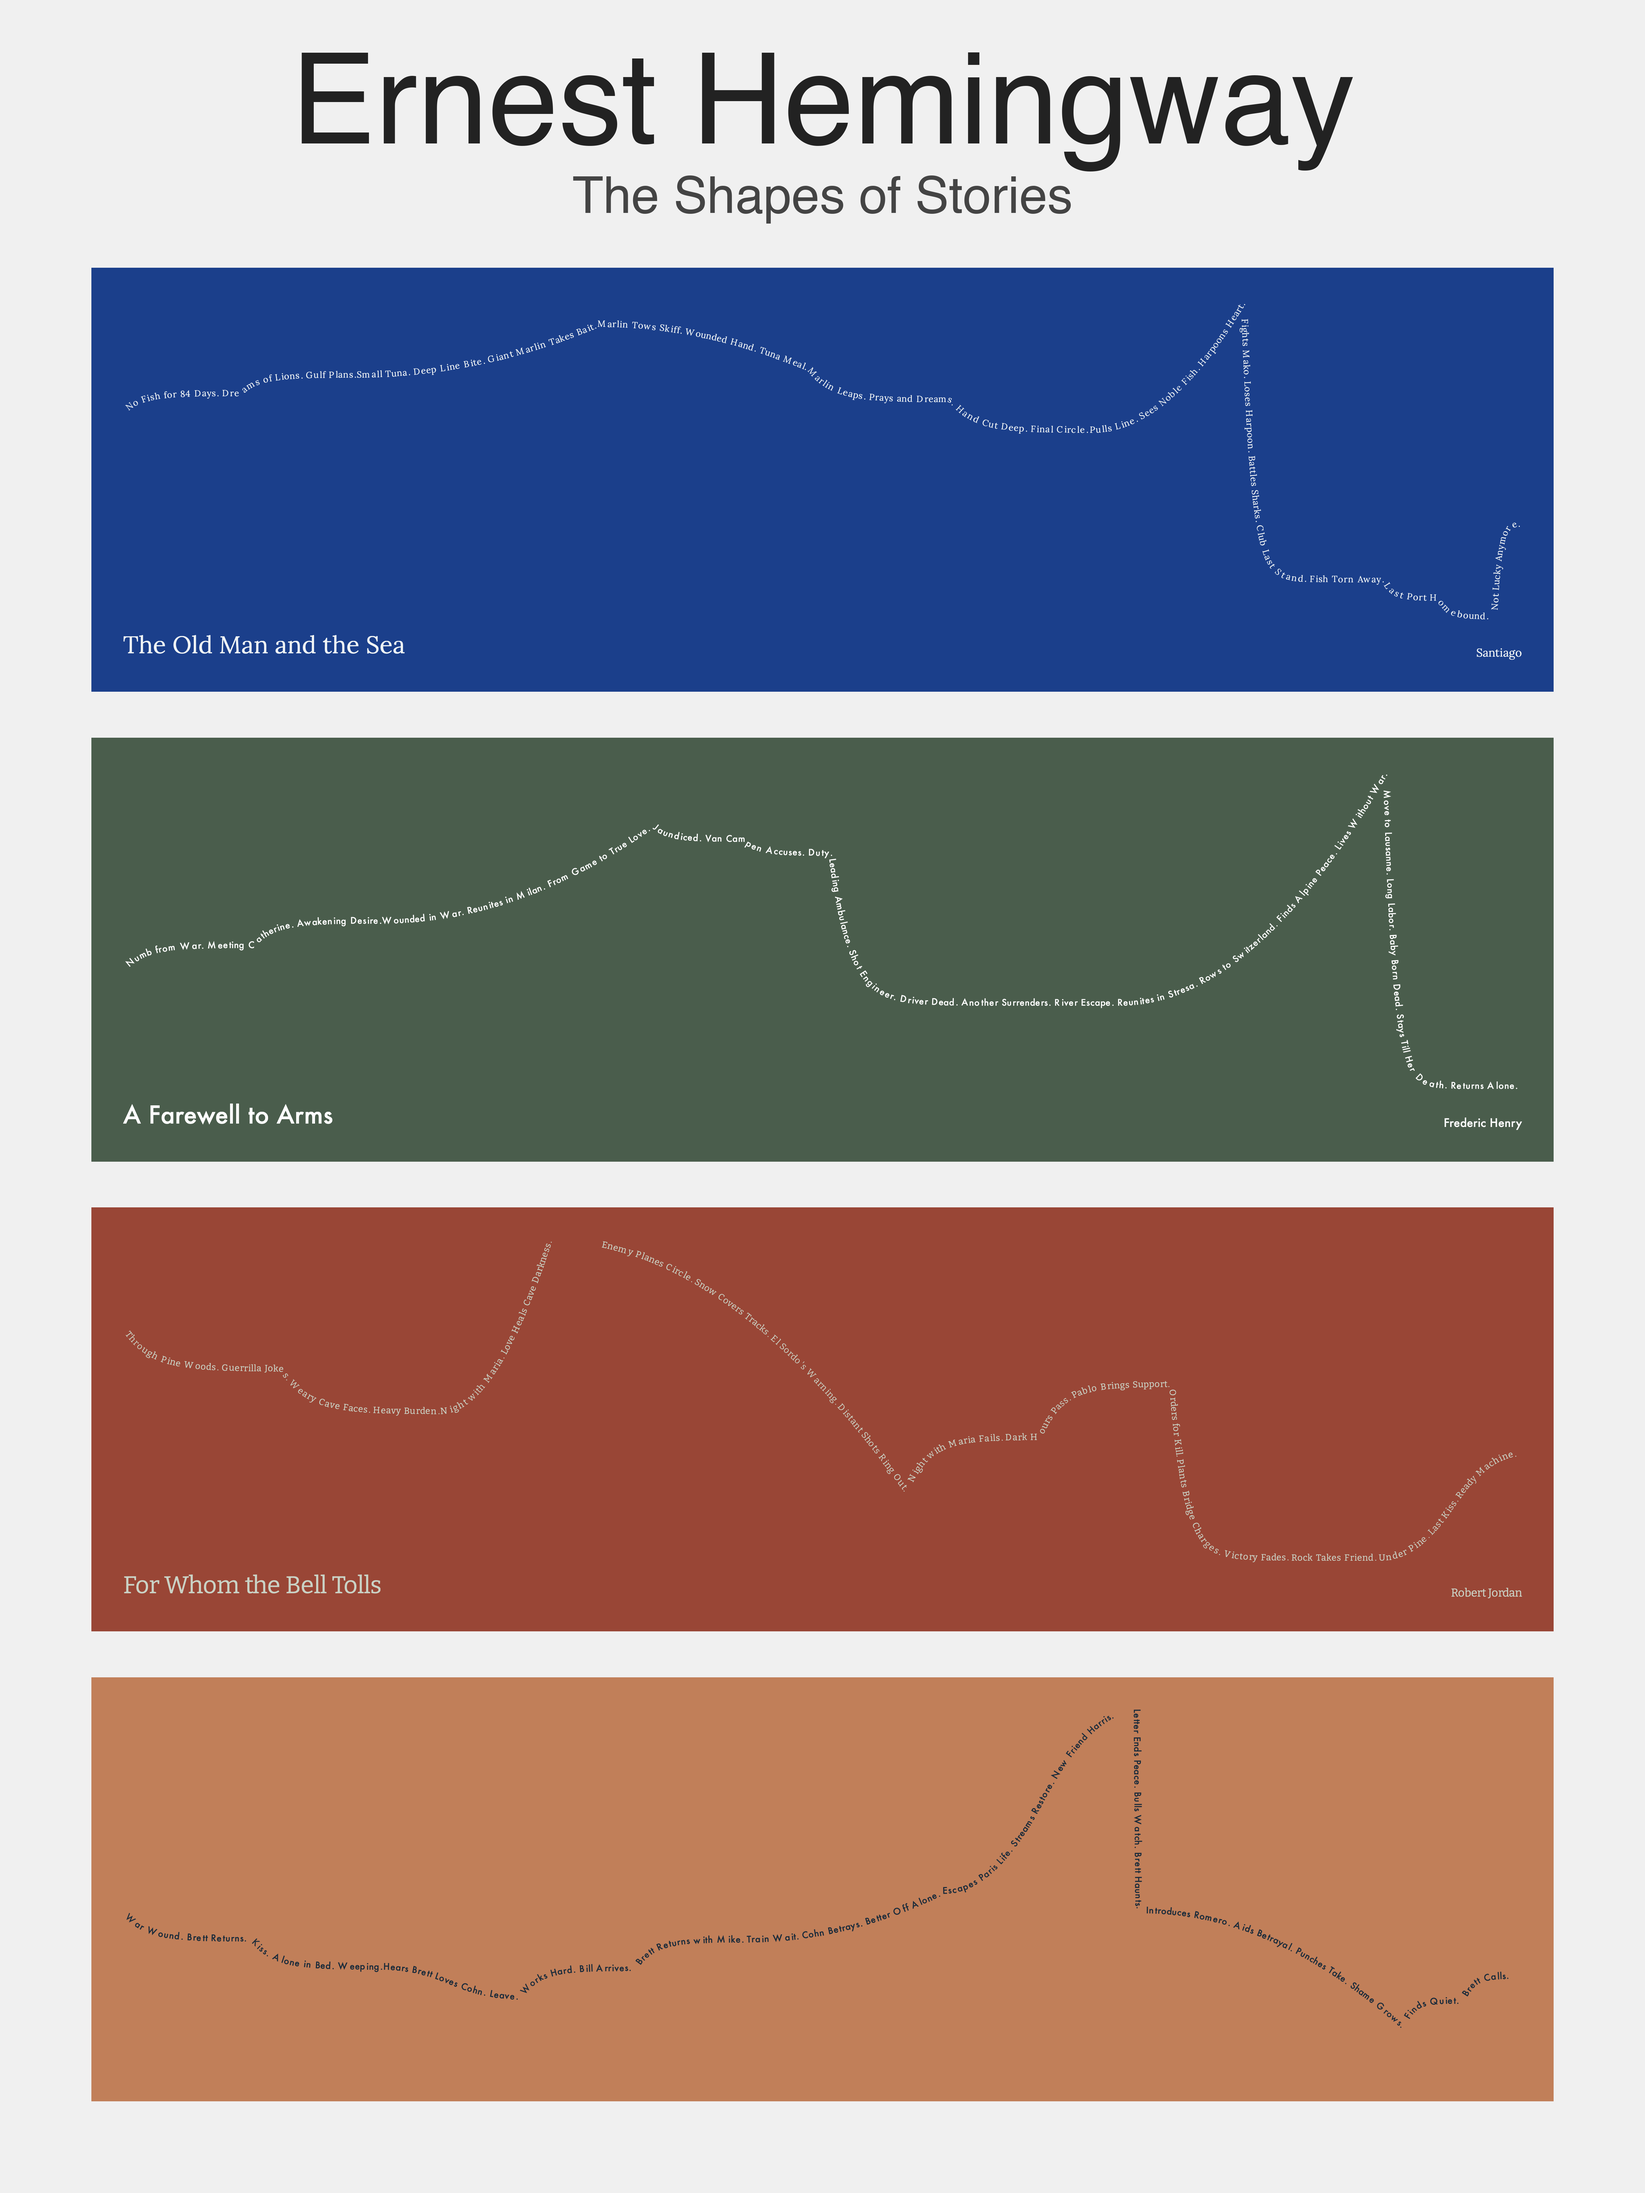
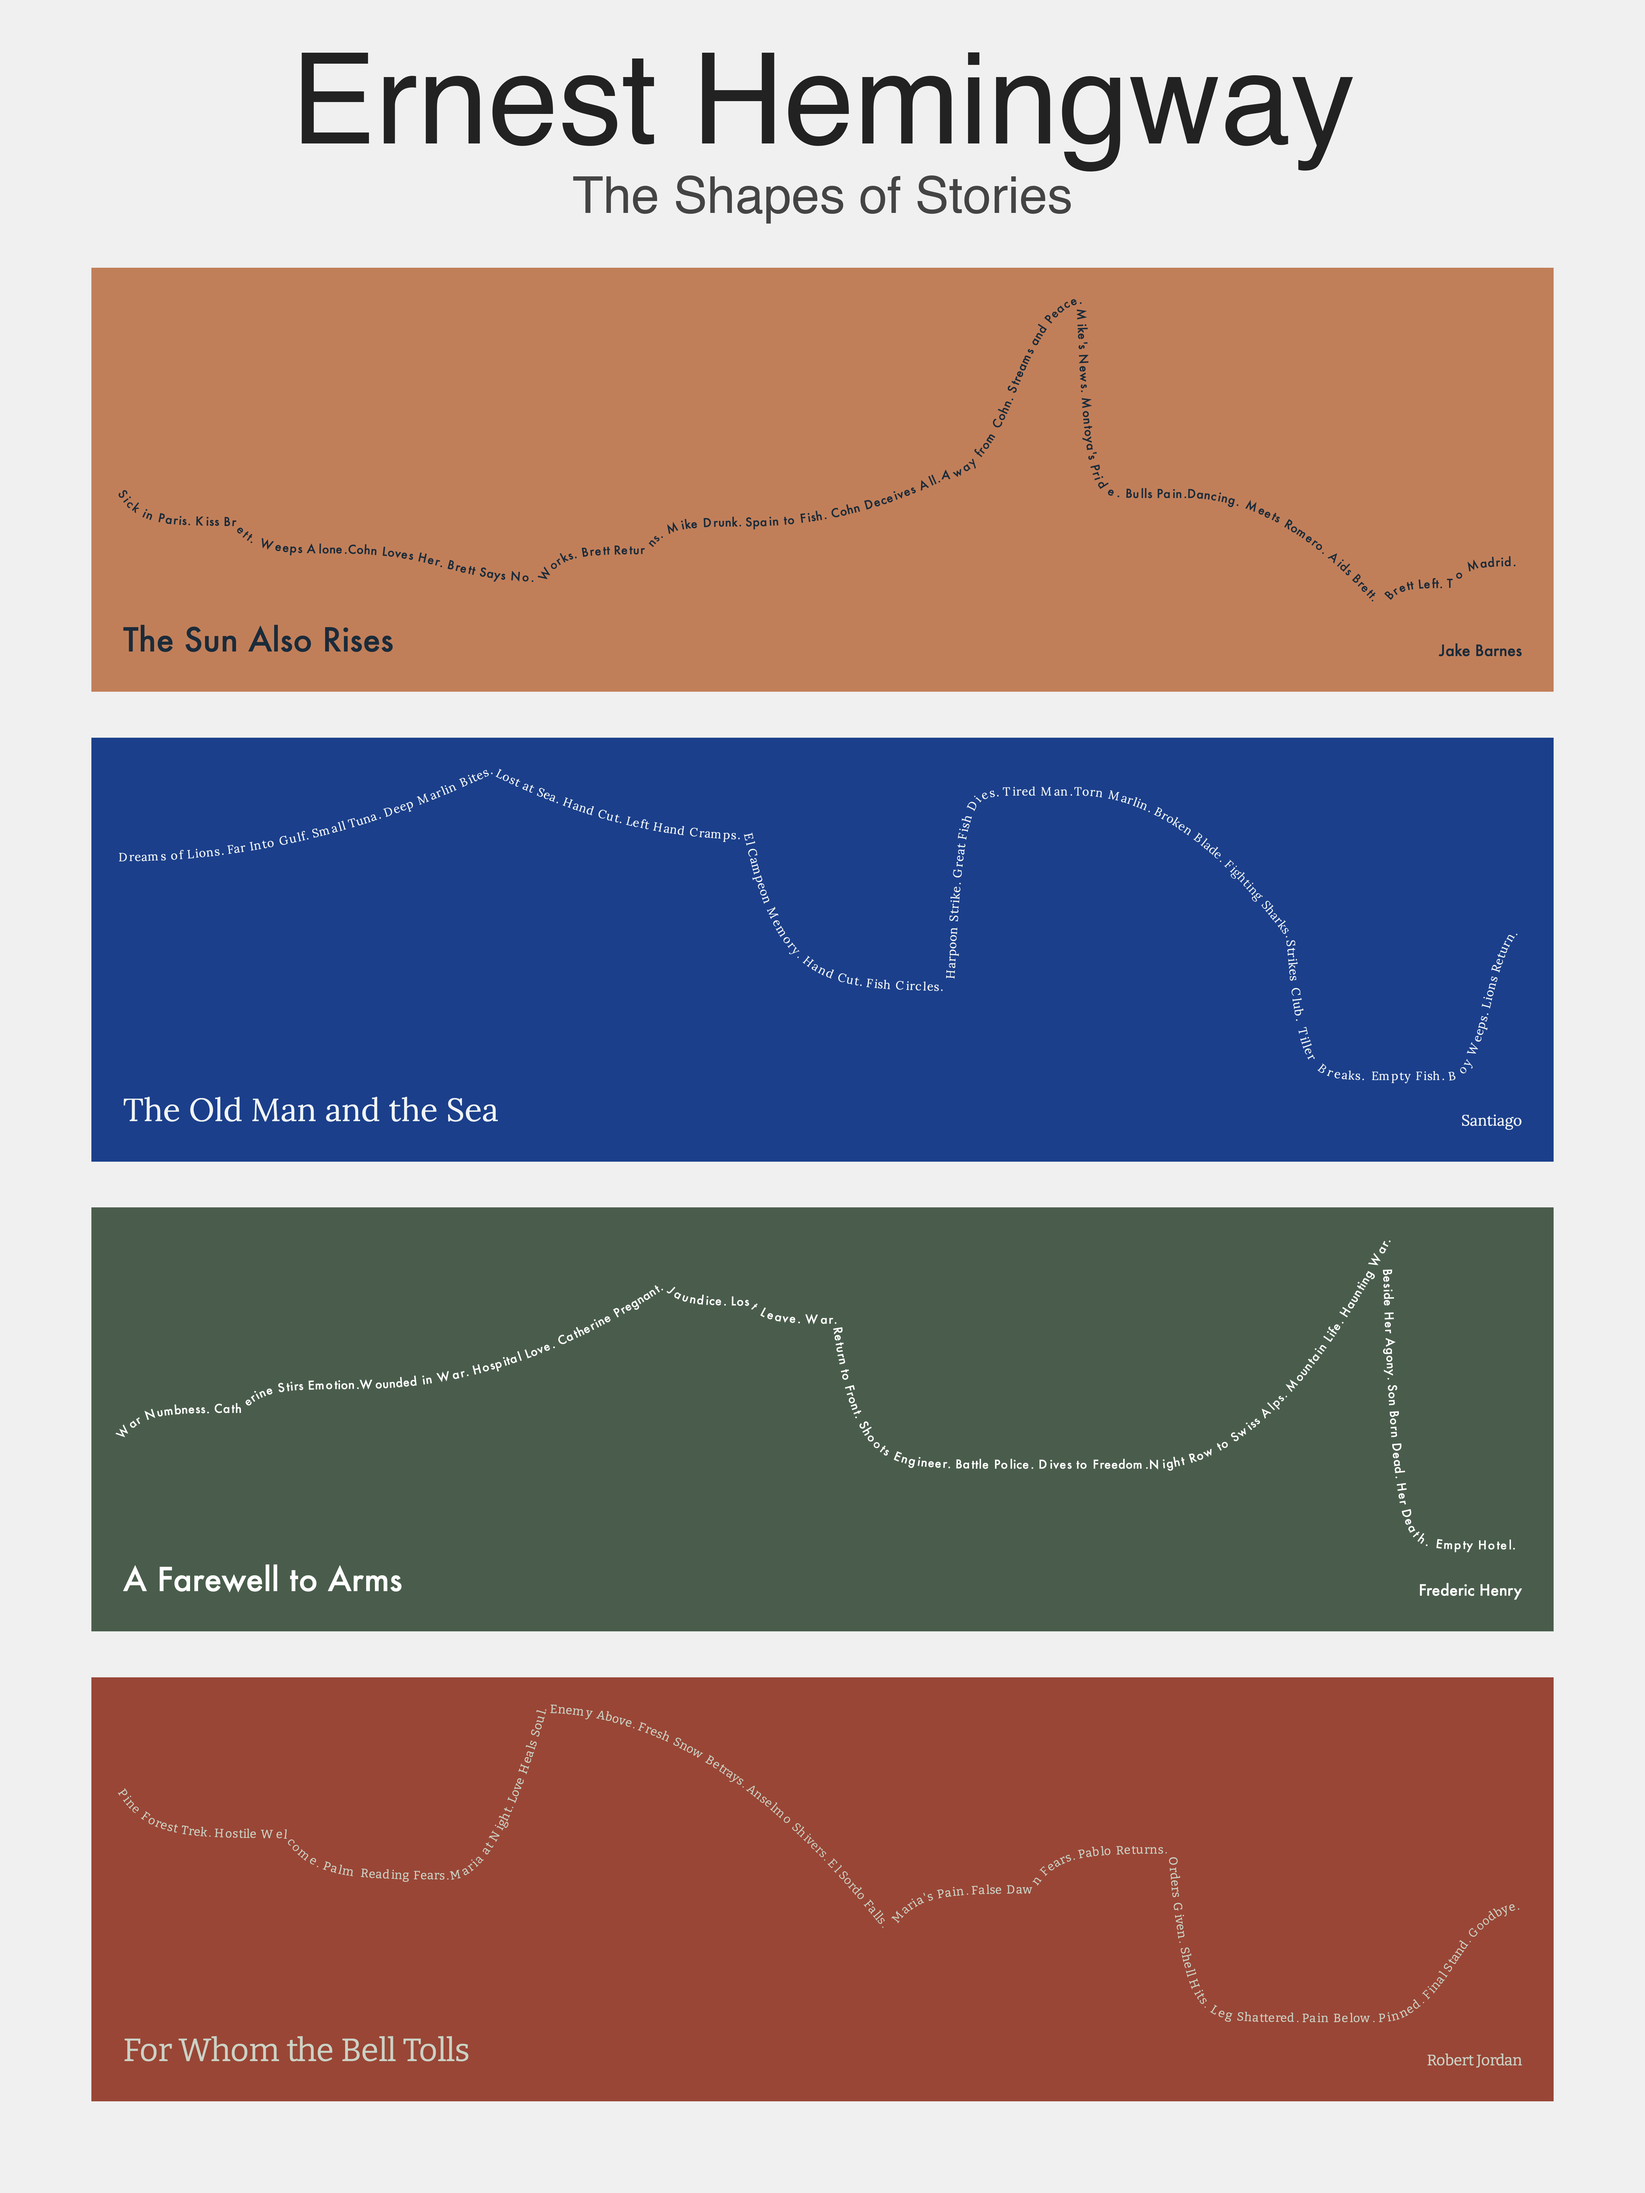
tweaks to story shape spacing

diff --git a/src/story_shape.py b/src/story_shape.py
@@ -1048,10 +1048,10 @@ def create_shape_single_pass(story_data,
                         component["spacing_factor"] = component["spacing_factor"] * 10
                     
                     try:
-                        new_multiplier = max(0.6, component['spaces_width_multiplier'][component['space_to_modify']] - (0.1 / component["spacing_factor"]))
+                        new_multiplier = max(0.8, component['spaces_width_multiplier'][component['space_to_modify']] - (0.1 / component["spacing_factor"]))
                         component['spaces_width_multiplier'][component['space_to_modify']] = new_multiplier
                     except:
-                        new_multiplier = max(0.6, component['spaces_width_multiplier'][str(component['space_to_modify'])] - (0.1 / component["spacing_factor"]))
+                        new_multiplier = max(0.8, component['spaces_width_multiplier'][str(component['space_to_modify'])] - (0.1 / component["spacing_factor"]))
                         component['spaces_width_multiplier'][str(component['space_to_modify'])] = new_multiplier
                     
                     if new_multiplier == .8:
@@ -1185,13 +1185,13 @@ def create_shape_single_pass(story_data,
                         component["spacing_factor"] = component["spacing_factor"] * 10
                     
                     try:
-                        new_multiplier = min(2.5, component['spaces_width_multiplier'][component['space_to_modify']] + (0.1 / component["spacing_factor"]))
+                        new_multiplier = min(1.5, component['spaces_width_multiplier'][component['space_to_modify']] + (0.1 / component["spacing_factor"]))
                         component['spaces_width_multiplier'][component['space_to_modify']] = new_multiplier
                     except:
-                        new_multiplier = min(2.5,component['spaces_width_multiplier'][str(component['space_to_modify'])] + (0.1 / component["spacing_factor"]))
+                        new_multiplier = min(1.5,component['spaces_width_multiplier'][str(component['space_to_modify'])] + (0.1 / component["spacing_factor"]))
                         component['spaces_width_multiplier'][str(component['space_to_modify'])] = new_multiplier
                     
-                    if new_multiplier == 2:
+                    if new_multiplier == 1.5:
                         component['space_to_modify'] = component['space_to_modify'] + 1
                         print("NEW SPACE TO MODIFY: ", component['space_to_modify'])
                     
@@ -2704,6 +2704,7 @@ def draw_text_on_curve(
                 rotated_box = shapely_rotate(box, angle * (180 / math.pi), origin=(0, 0), use_radians=False)
                 translated_box = shapely.affinity.translate(rotated_box, xoff=x, yoff=y)
 
+                #CAUSED ALOT OF ISSUES !!!!!!!!!
                 # ── NEW: bounce the char if it crosses the 0.625‑in safety zone ──
                 # if (translated_box.bounds[0] < margin_x or                 # left
                 #     translated_box.bounds[2] > design_width  - margin_x or # right

diff --git a/src/create_poster.py b/src/create_poster.py
@@ -670,10 +670,10 @@ if __name__ == "__main__":
 
 
     story_files = [
+        "/Users/johnmikedidonato/Projects/TheShapesOfStories/data/story_shapes/title-the-sun-also-rises_protagonist-jake-barnes_product-print_size-16x4.64_line-type-char_char_background-color-#C17F59_font-color-#1B2B3A_border-color-#7C4B2A_font-Futura_title-display-yes.png",
         "/Users/johnmikedidonato/Projects/TheShapesOfStories/data/story_shapes/title-the-old-man-and-the-sea_protagonist-santiago_product-print_size-16x4.64_line-type-char_char_background-color-#1B3F8B_font-color-#F0F4F5_border-color-#45776B_font-Lora_title-display-yes.png",
         "/Users/johnmikedidonato/Projects/TheShapesOfStories/data/story_shapes/title-a-farewell-to-arms_protagonist-frederic-henry_product-print_size-16x4.64_line-type-char_char_background-color-#4A5D4C_font-color-#FFFFFF_border-color-#8B0000_font-Futura_title-display-yes.png",
-        "/Users/johnmikedidonato/Projects/TheShapesOfStories/data/story_shapes/title-for-whom-the-bell-tolls_protagonist-robert-jordan_product-print_size-16x4.64_line-type-char_char_background-color-#994636_font-color-#CAD2C5_border-color-#2D2424_font-Bitter_title-display-yes.png",
-        "/Users/johnmikedidonato/Projects/TheShapesOfStories/data/story_shapes/title-the-sun-also-rises_protagonist-jake-barnes_product-print_size-16x4.64_line-type-char_char_background-color-#C17F59_font-color-#1B2B3A_border-color-#7C4B2A_font-Futura_title-display-yes.png"
+        "/Users/johnmikedidonato/Projects/TheShapesOfStories/data/story_shapes/title-for-whom-the-bell-tolls_protagonist-robert-jordan_product-print_size-16x4.64_line-type-char_char_background-color-#994636_font-color-#CAD2C5_border-color-#2D2424_font-Bitter_title-display-yes.png"
     ]
     
     # Step 7: Create Actual Poster

diff --git a/src/create.py b/src/create.py
@@ -387,7 +387,7 @@ for row in rows:
                     wrap_background_color = border_color, #wrapped in inches part color only relevant when wrap_in_inches > 0 inc
                     fixed_margin_in_inches = fixed_margin_in_inches, #fixed margins for output
                     recursive_mode = True, #if you want to recurisvely generate story
-                    recursive_loops = 100, #the number of iterations 
+                    recursive_loops = 500, #the number of iterations 
                     llm_provider = "anthropic",#"groq",#"openai", #anthropic",#"google" #for generating descriptors
                     llm_model = "claude-3-5-sonnet-latest",#"meta-llama/llama-4-scout-17b-16e-instruct",#"gpt-4.1-2025-04-14", #"claude-3-5-sonnet-latest",#"gemini-2.5-pro-preview-03-25", #"claude-3-5-sonnet-latest", #for generating descriptors 
                     #llm_provider = "google", #"anthropic", #google", 
